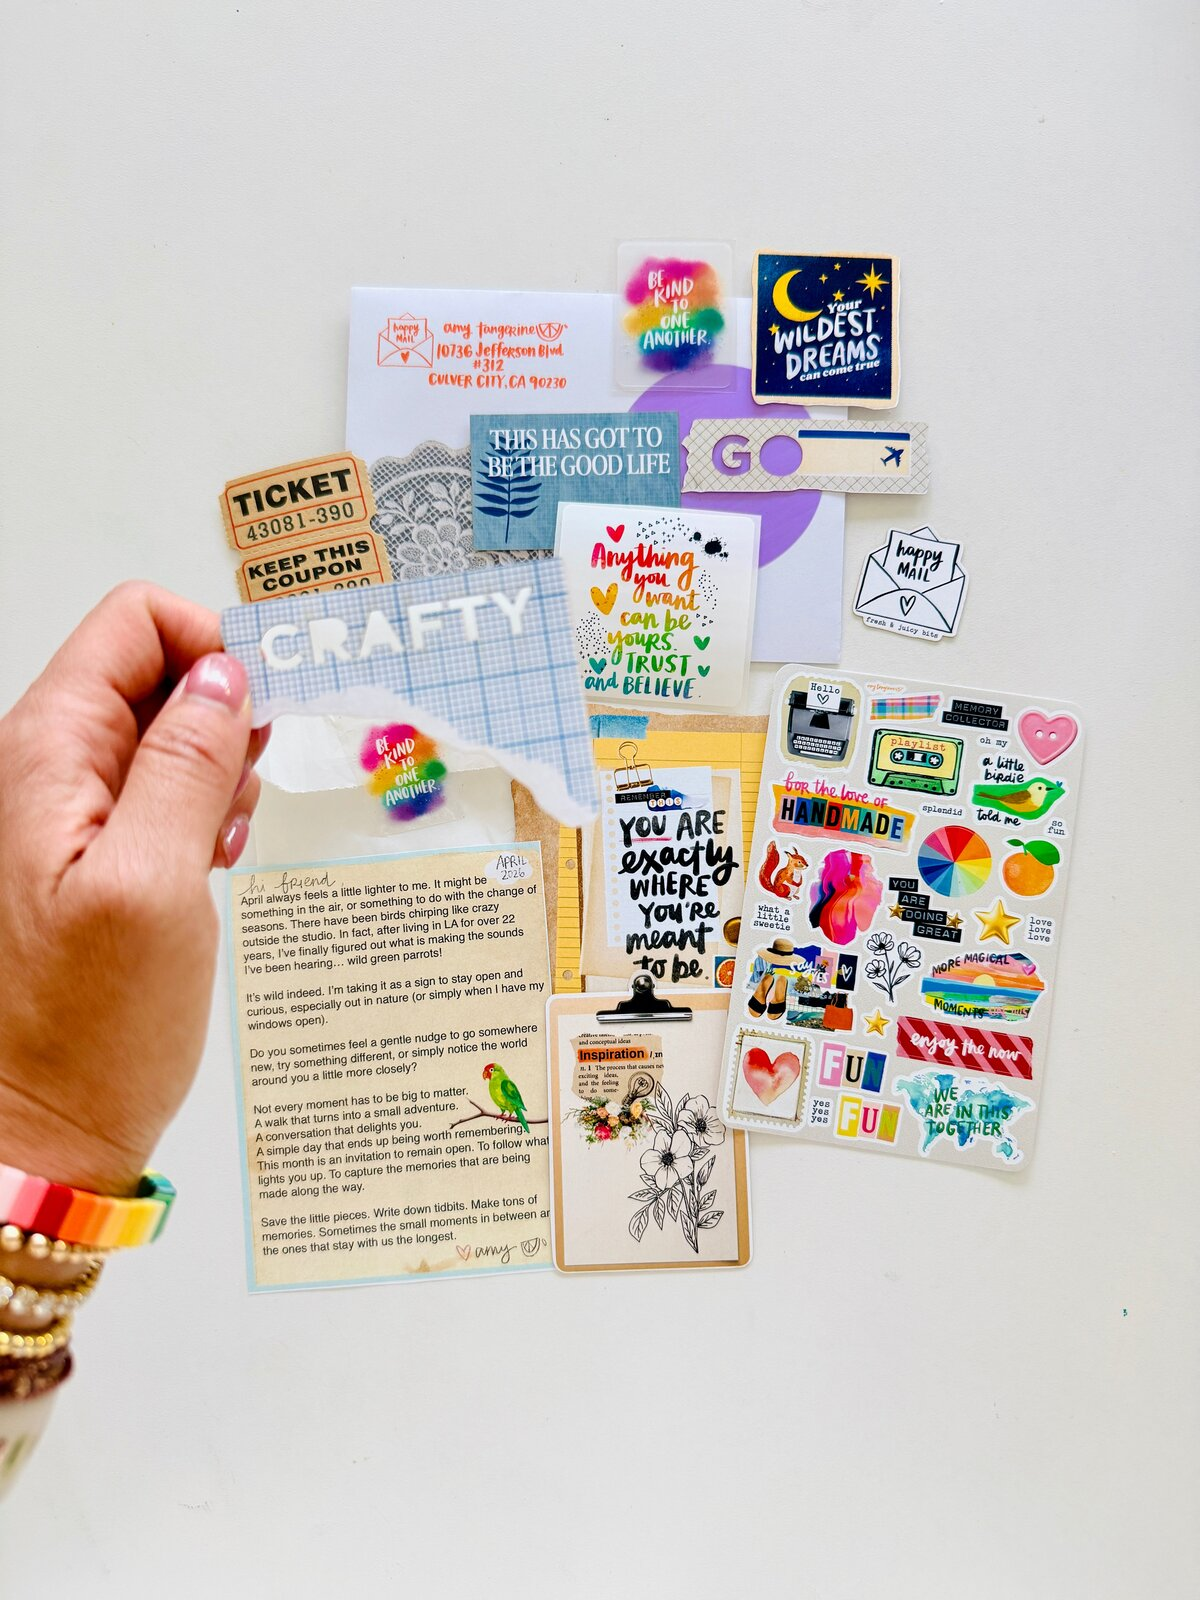
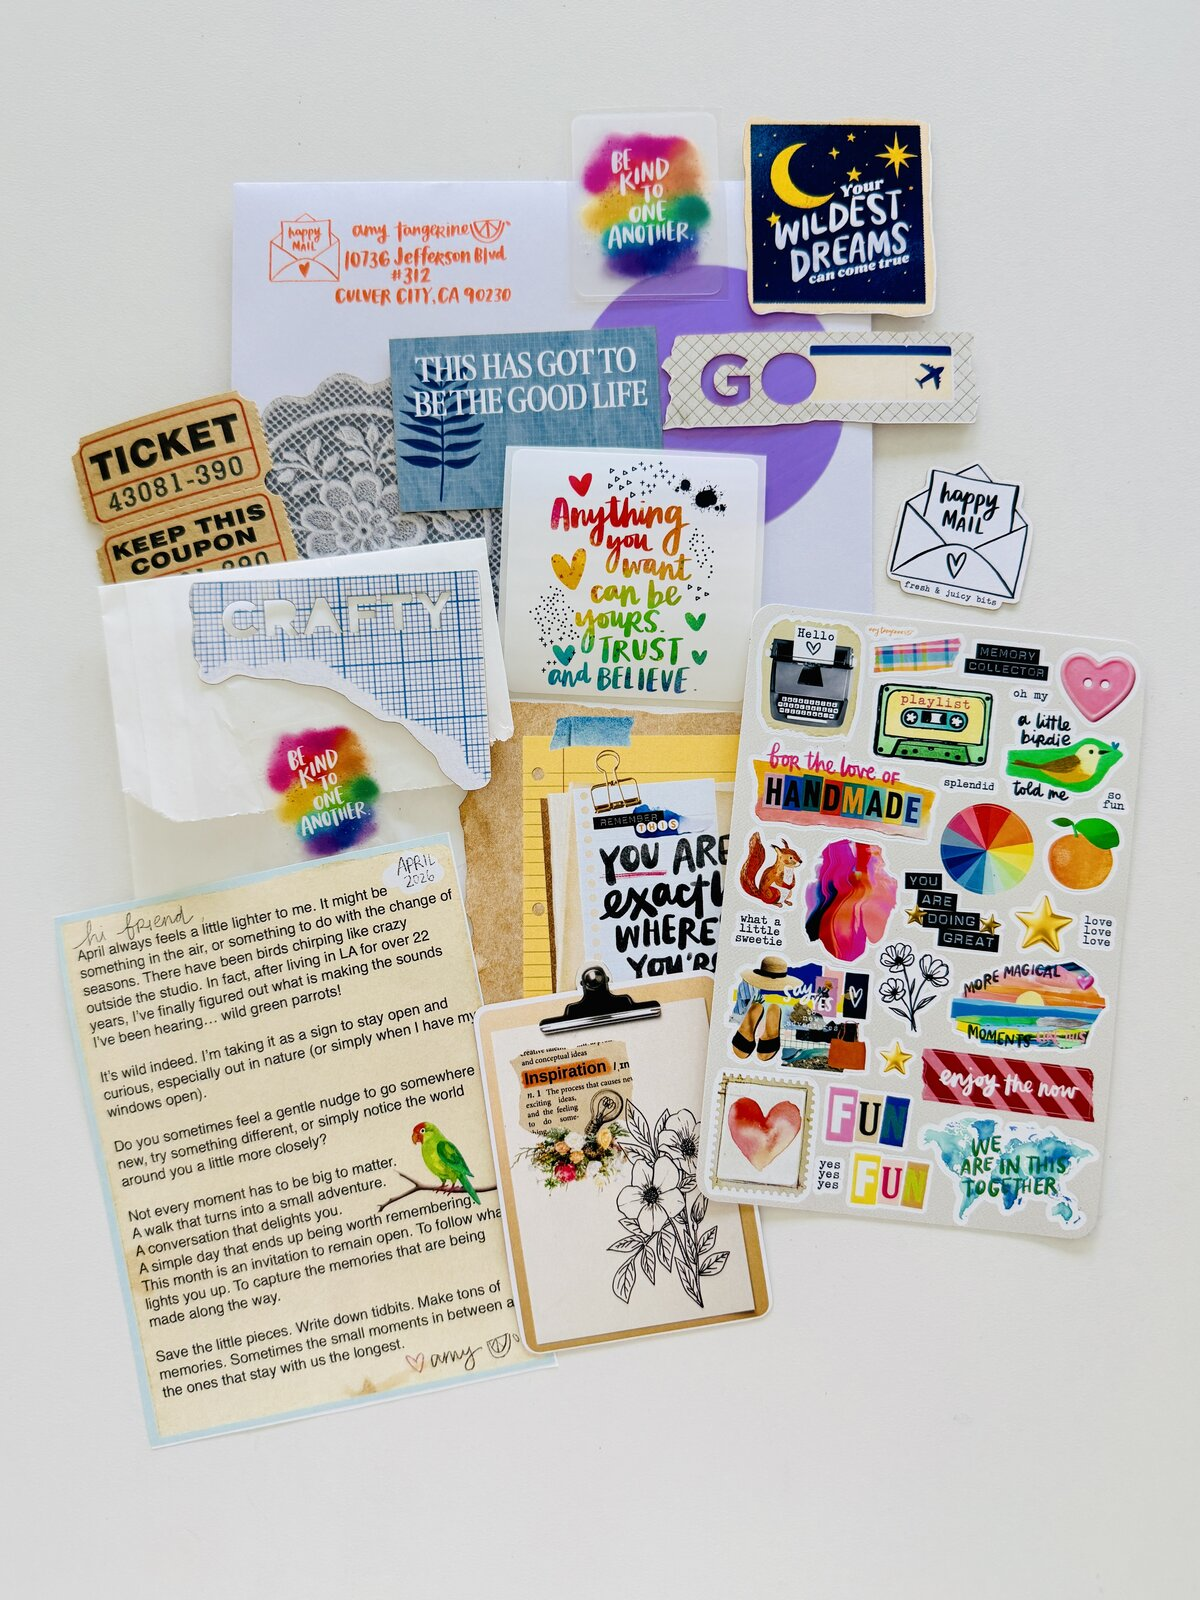
happy-mail: Recent envelopes gets March, April and July from Amy's own photos [t1450]
Added with scripts/add-hm-envelope.mjs (EXIF and GPS stripped): July 2026 (iMessage 7/11,
full flat lay), April 2026 swapped for the hands-free flat lay (iMessage 5/28), March 2026
(the sticker-sheet close crop from the 4/23 Houston email). The homepage Happy Mail card
follows the newest month, so it now shows July; /about and /contact keep pointing at the
April file and get the hands-free shot. Sources: the vault's
hm-envelope-photos-found-2026-11-01.md.

diff --git a/lib/happy-mail-content.ts b/lib/happy-mail-content.ts
@@ -65,7 +65,9 @@ export const HM_BOX_CONTENTS = [
 // product-render image here: the point is what actually went out.
 export type HmEnvelope = { month: string; img: string; caption?: string }
 export const HM_RECENT_ENVELOPES: HmEnvelope[] = [
+  { month: "July 2026", img: "/images/happy-mail/envelopes/2026-07.jpg" },
   { month: "April 2026", img: "/images/happy-mail/envelopes/2026-04.jpg" },
+  { month: "March 2026", img: "/images/happy-mail/envelopes/2026-03.jpg" },
 ]
 
 // Testimonials — REAL subscribers, verbatim from their own emails to hello@.
